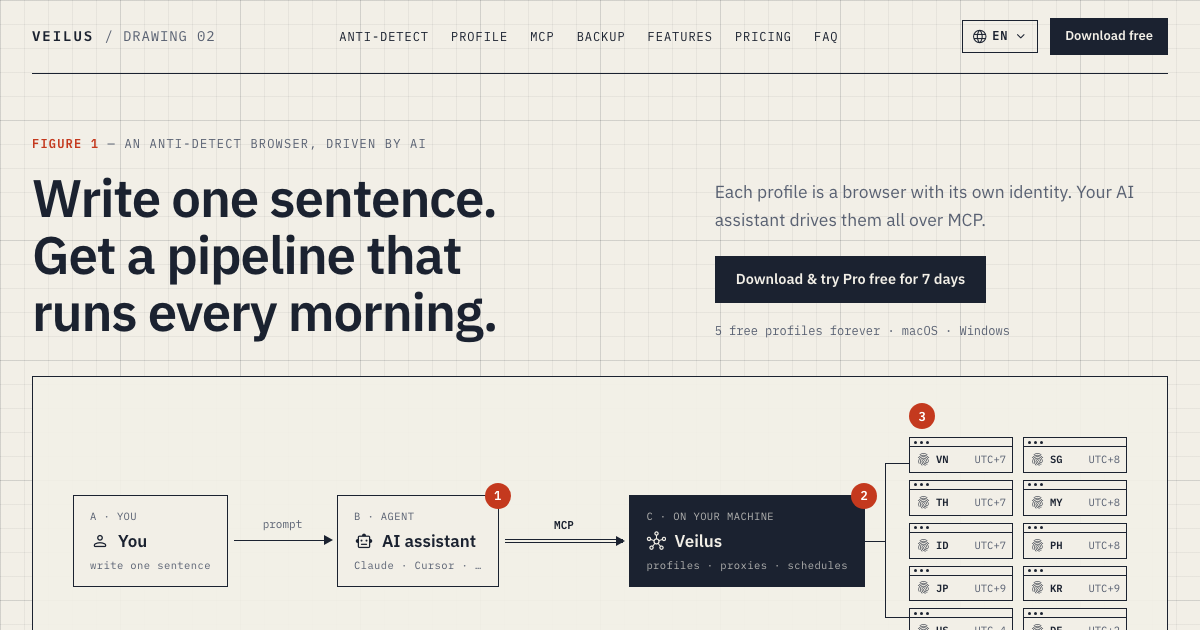
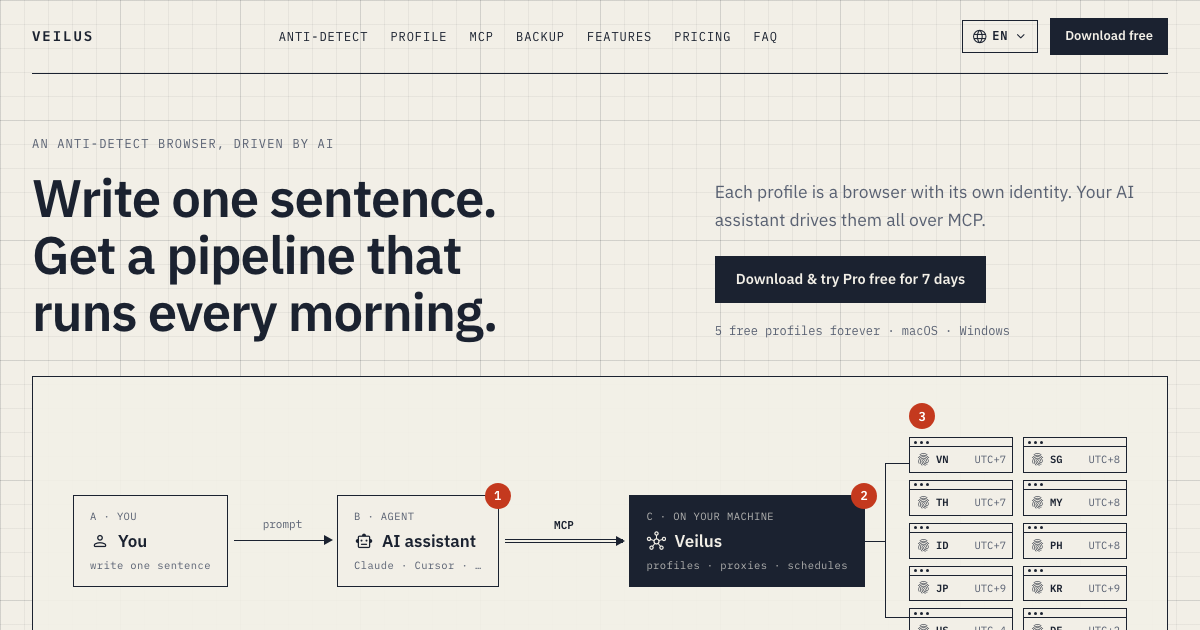
fix: bỏ nhãn đánh số khỏi trang; Hình 3 trên màn hẹp thành bảng 2 cột gắn dưới cửa sổ
Người dùng góp ý sau khi xem preview (2026-09-29):
- "Không nên hiện chữ hình 1, hình 2, hình 3", và chọn bỏ mọi nhãn đánh số: "Hình 1–5",
  "Bảng 1–3", "Ghi chú" ở đầu mỗi phần (giữ dòng chủ đề), và "Bản vẽ 02" cạnh logo và ở
  chân trang. Bỏ luôn khoá i18n figNo, nav.sheet ở 8 ngôn ngữ cùng hai luật CSS thành chết
  (.k-fig b, .k-mark span); chụp lại ảnh chia sẻ vì nó chứa "FIGURE 1" và "DRAWING 02".
- "Phần hình 3 trên mobile chưa ổn bị rời rạc": ở ≤1080px, 5 nhãn trái bị đẩy sang lề phải
  lệch nhau, 5 nhãn phải dạt lề trái, đường chỉ dẫn trỏ vào khoảng trống. Nay 10 nhãn là bảng
  5 hàng × 2 cột gắn liền dưới cửa sổ hồ sơ; chấm màu nhấn đứng trước tên nhãn.

Plane: VEIL-1012

diff --git a/src/styles/blueprint.css b/src/styles/blueprint.css
@@ -33,7 +33,6 @@
 .k-wrap { max-width: 1240px; margin: 0 auto; padding: 0 32px; }
 
 .k-mark { font-family: var(--font-mono); font-weight: 600; font-size: 14px; letter-spacing: 0.14em; color: var(--ink); white-space: nowrap; }
-.k-mark span { color: var(--muted); font-weight: 400; letter-spacing: 0.06em; }
 
 .k-btn { display: inline-flex; align-items: center; justify-content: center; gap: 8px; background: var(--ink); color: var(--paper); padding: 13px 20px; font-weight: 600; font-size: 14.5px; line-height: 1.3; text-align: center; border: 1.5px solid var(--ink); }
 a.k-btn, a.k-btn:hover { color: var(--paper); }
@@ -49,7 +48,6 @@ a.k-btn-o:hover { background: var(--paper); }
 
 /* ---------- Phần của trang chủ ---------- */
 .k-fig { font-family: var(--font-mono); font-size: 12px; letter-spacing: 0.1em; text-transform: uppercase; color: var(--muted); }
-.k-fig b { color: var(--acc); font-weight: 600; }
 .k-sec { padding-top: 104px; }
 .k-h2 { font-weight: 600; font-size: clamp(28px, 3.4vw, 46px); line-height: 1.1; letter-spacing: -0.018em; margin: 12px 0 34px; max-width: 20em; text-wrap: balance; }
 .k-sub { font-size: 16.5px; color: var(--muted); margin: -20px 0 30px; max-width: none; }
